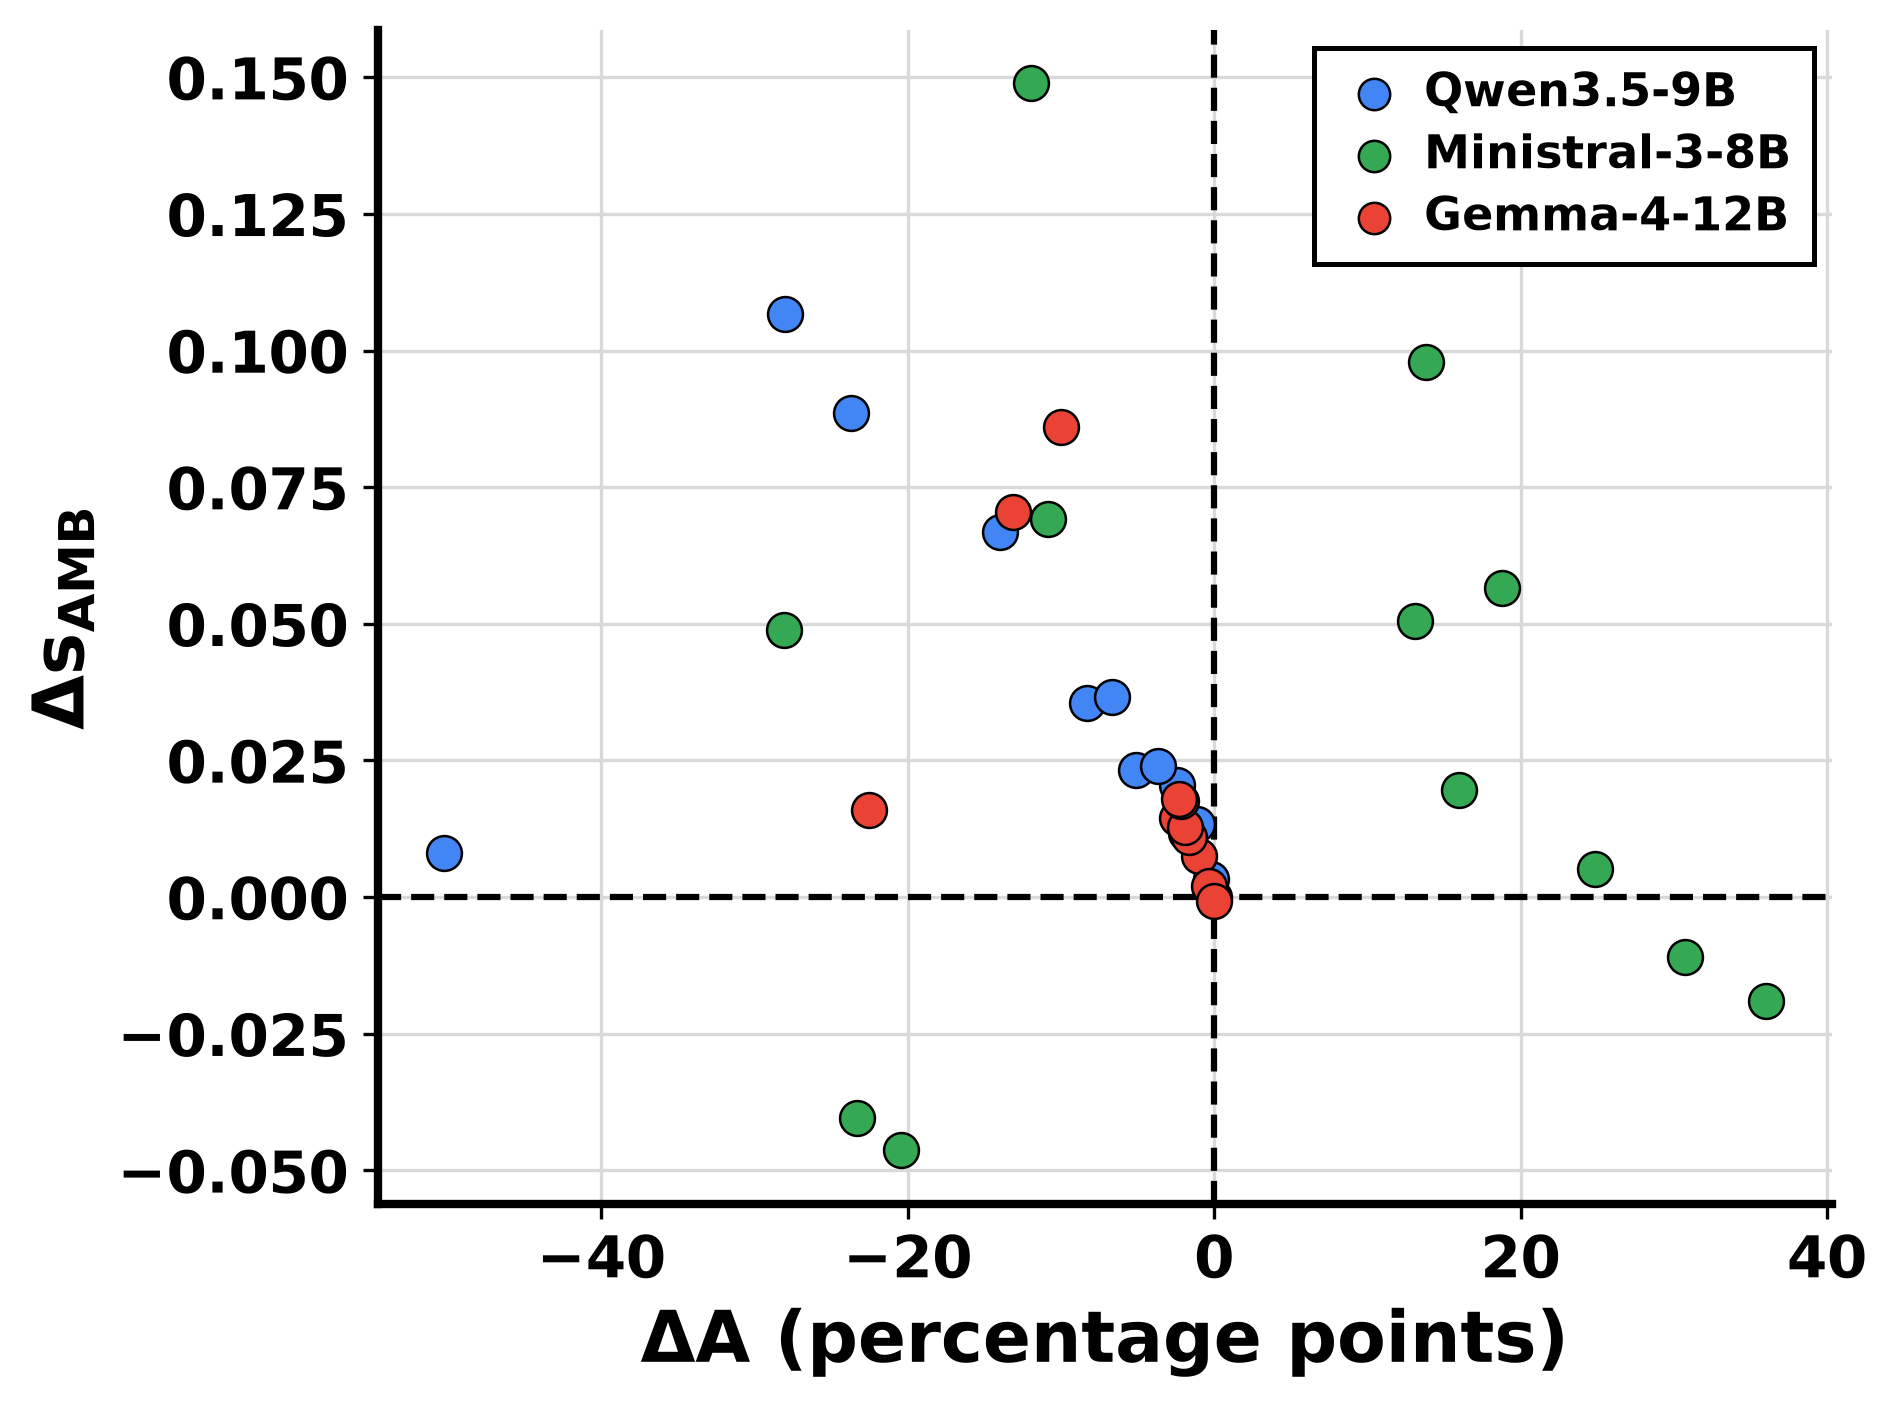
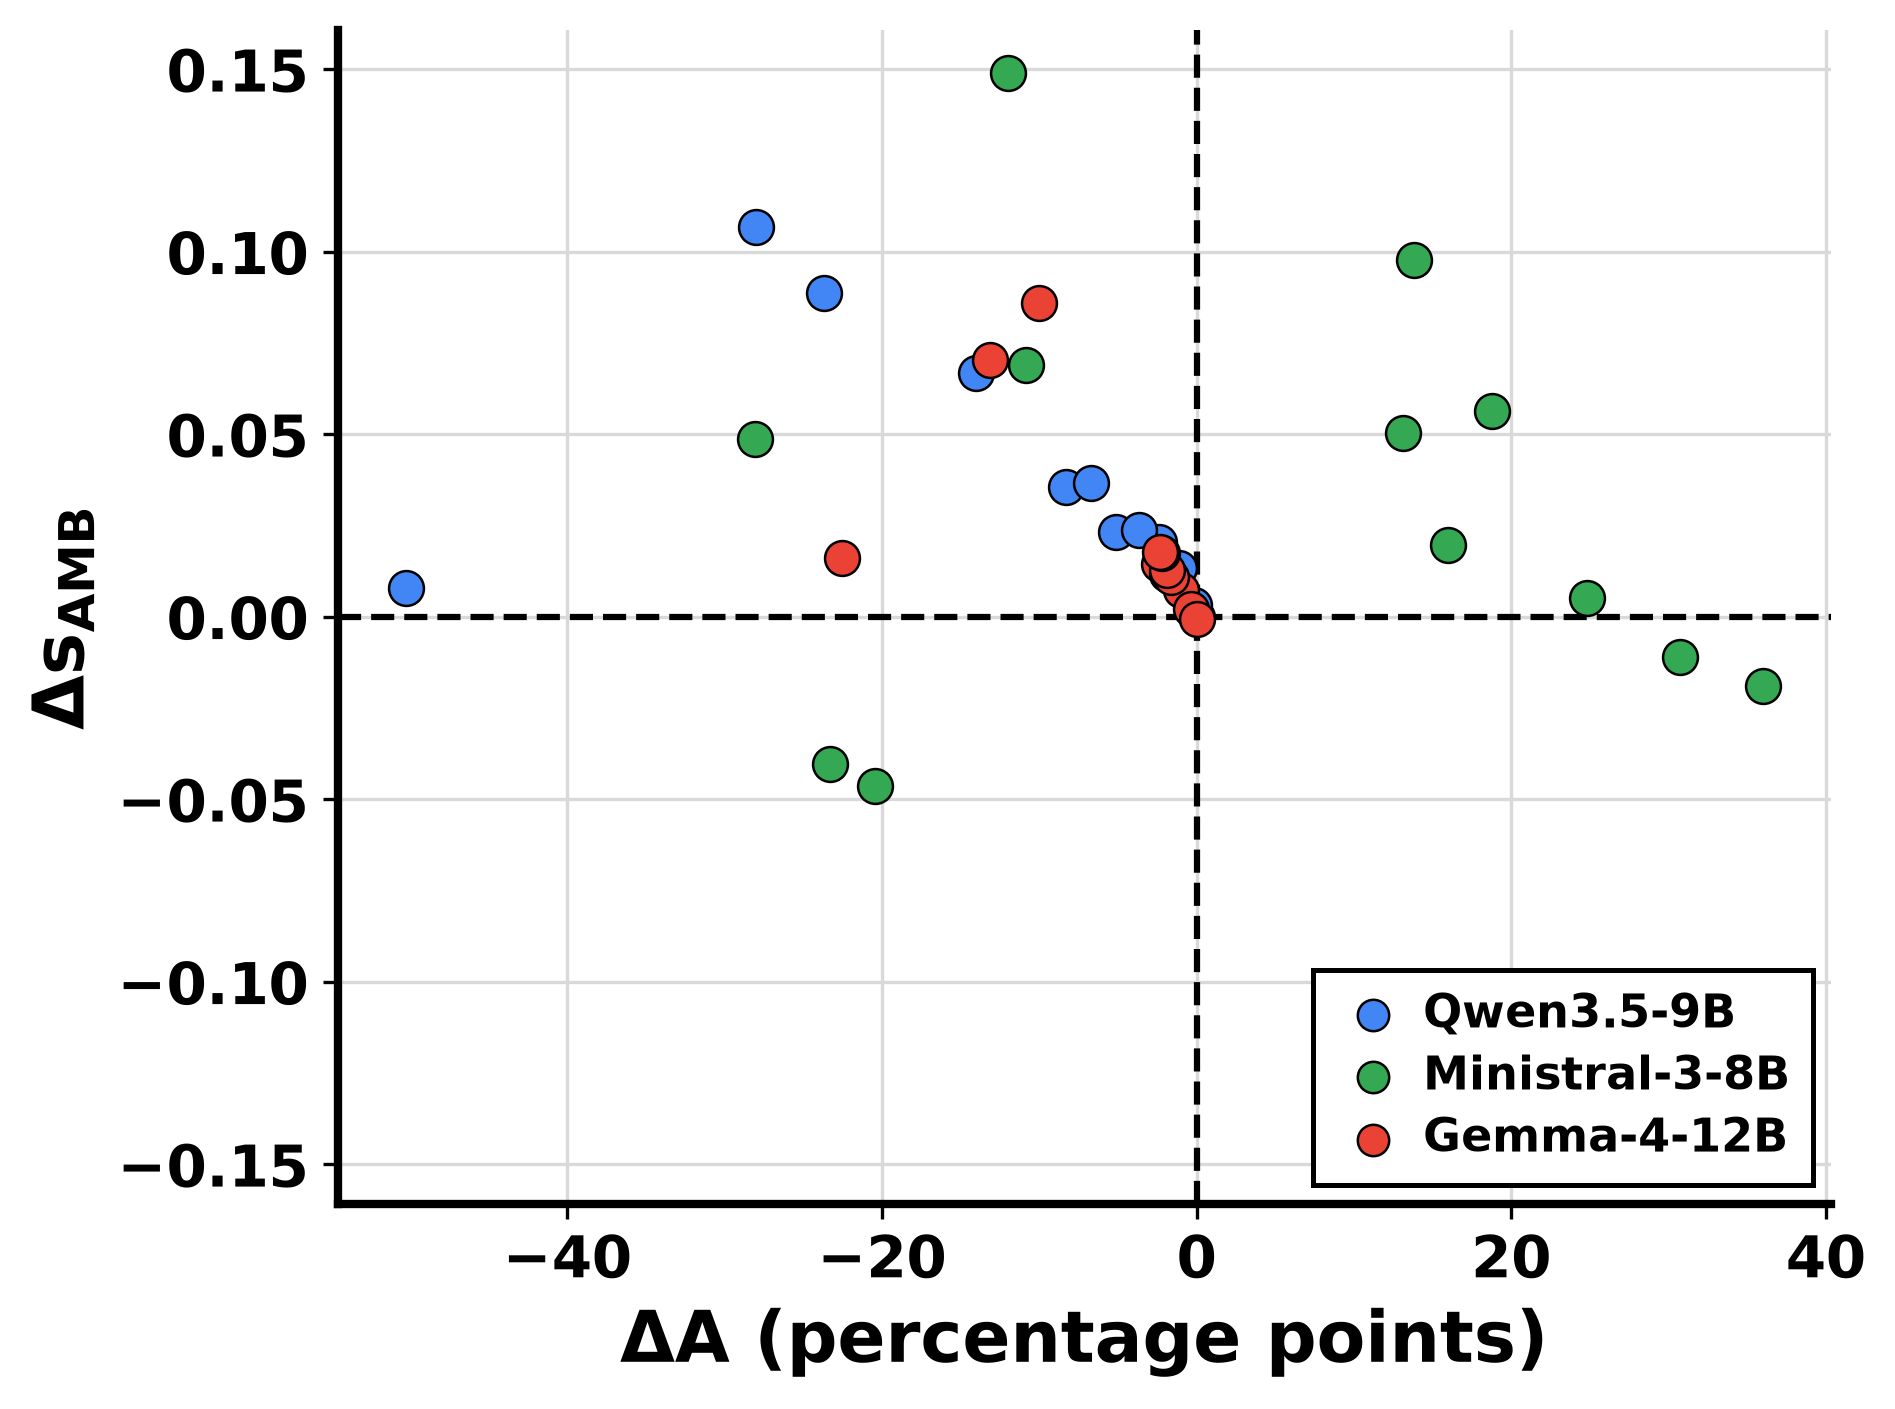
Centre the zero line in the abstention scatter

diff --git a/figures/fig_bias_abstention.py b/figures/fig_bias_abstention.py
@@ -22,6 +22,8 @@ def main():
         d = g[g.model == m]
         ax.scatter(d.dA, d.s_amb_delta, s=70, color=MODEL_COLOR[m], edgecolor="black", linewidth=0.6,
                    zorder=3, label=NAME[m])
+    lim = 1.08 * g.s_amb_delta.abs().max()          # symmetric y-range so the zero line sits mid-plot
+    ax.set_ylim(-lim, lim)
     ax.set_xlabel(r"$\Delta A$ (percentage points)", fontsize=17, fontweight="bold")
     ax.set_ylabel(r"$\Delta s_{\mathrm{AMB}}$", fontsize=17, fontweight="bold")
     ax.tick_params(labelsize=14); bold_ticks(ax)
@@ -29,7 +31,7 @@ def main():
     for s in ["top", "right"]:
         ax.spines[s].set_visible(False)
     ax.spines["left"].set_linewidth(2); ax.spines["bottom"].set_linewidth(2)
-    boxed_legend(ax, handletextpad=0.3, labelspacing=0.35, markerscale=0.9)
+    boxed_legend(ax, loc="lower right", handletextpad=0.3, labelspacing=0.35, markerscale=0.9)
     fig.tight_layout()
     save(fig, "Figure_bias_abstention")
 
